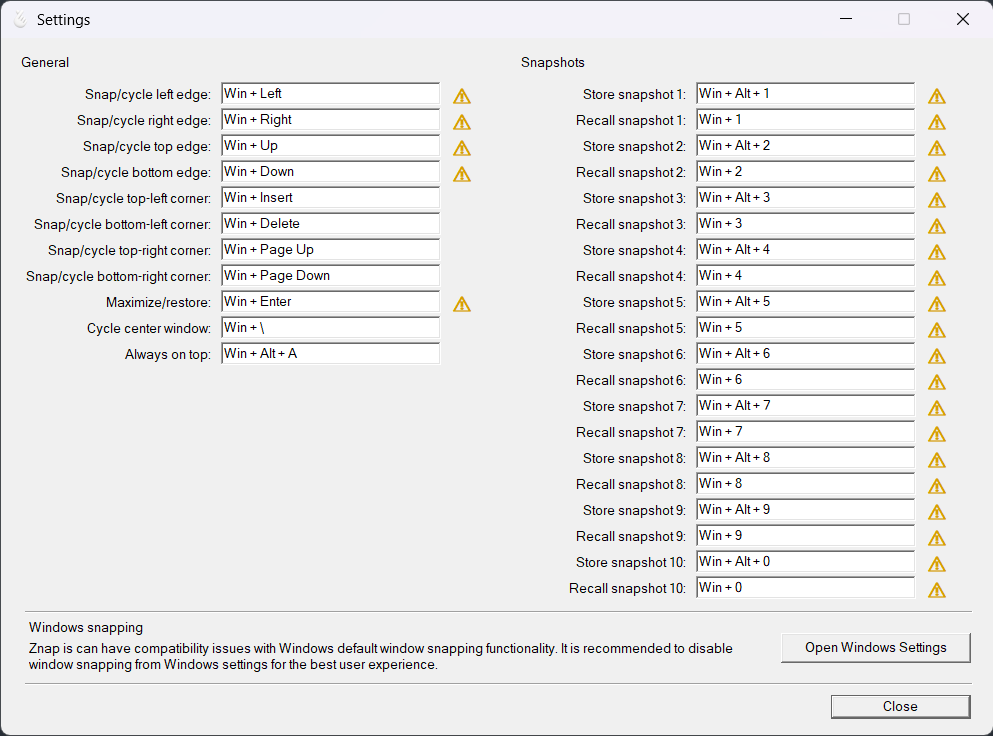
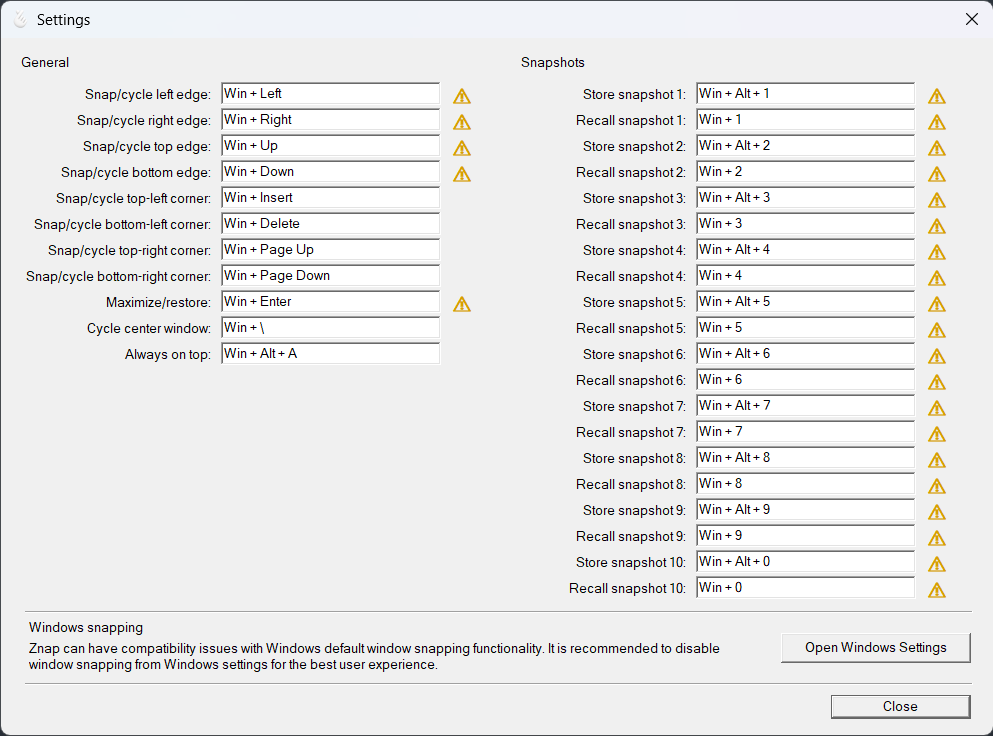
Fix typo

Changed region(s): [[0.0624, 0.875, 0.7492, 0.9062], [0.9678, 0.0, 0.999, 0.0312]]

diff --git a/src/win32_shim.c b/src/win32_shim.c
@@ -412,7 +412,7 @@ void ZnapShowSettingsDialog(HINSTANCE instance, HWND owner, const ZnapKeymapRow 
     if (show_snap_warning) {
         ZnapCreateSettingsControl(0, L"STATIC", L"", SS_ETCHEDHORZ, 24, 573, 950, 2, znap_settings_window, 0);
         ZnapCreateSettingsControl(0, L"STATIC", L"Windows snapping", SS_LEFT, 28, 581, 730, 18, znap_settings_window, 0);
-        ZnapCreateSettingsControl(0, L"STATIC", L"Znap is can have compatibility issues with Windows default window snapping functionality. It is recommended to disable window snapping from Windows settings for the best user experience.", SS_LEFT, 28, 602, 730, 38, znap_settings_window, 0);
+        ZnapCreateSettingsControl(0, L"STATIC", L"Znap can have compatibility issues with Windows default window snapping functionality. It is recommended to disable window snapping from Windows settings for the best user experience.", SS_LEFT, 28, 602, 730, 38, znap_settings_window, 0);
         ZnapCreateSettingsControl(0, L"BUTTON", L"Open Windows Settings", BS_PUSHBUTTON | WS_TABSTOP, 780, 595, 190, 30, znap_settings_window, ZNAP_OPEN_WINDOWS_SETTINGS);
         ZnapCreateSettingsControl(0, L"STATIC", L"", SS_ETCHEDHORZ, 24, 645, 950, 2, znap_settings_window, 0);
         ZnapCreateSettingsControl(0, L"BUTTON", L"Close", BS_DEFPUSHBUTTON | WS_TABSTOP, 830, 657, 140, 24, znap_settings_window, ZNAP_CLOSE_SETTINGS);
